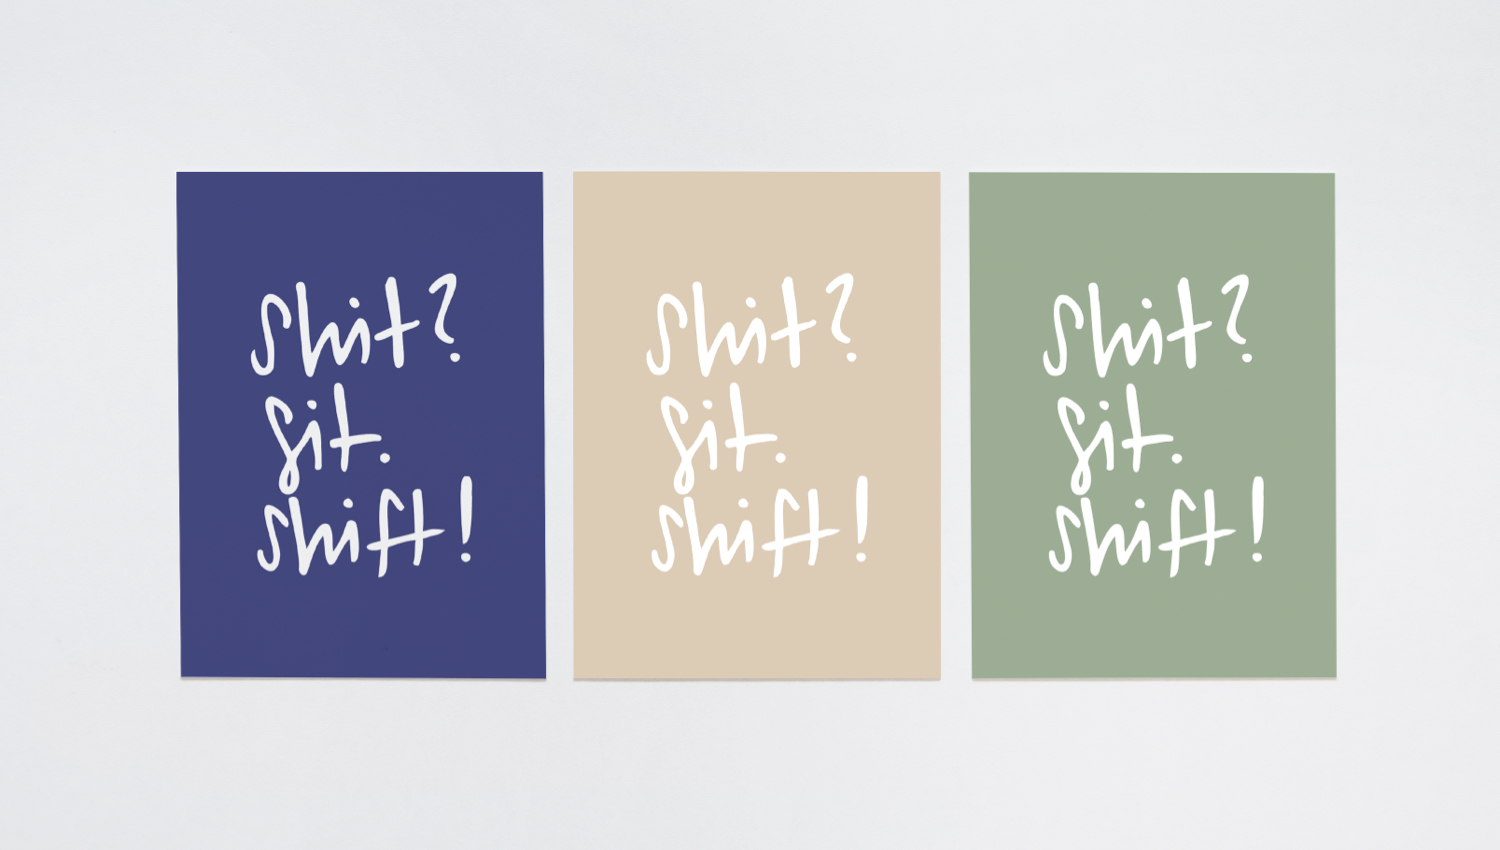
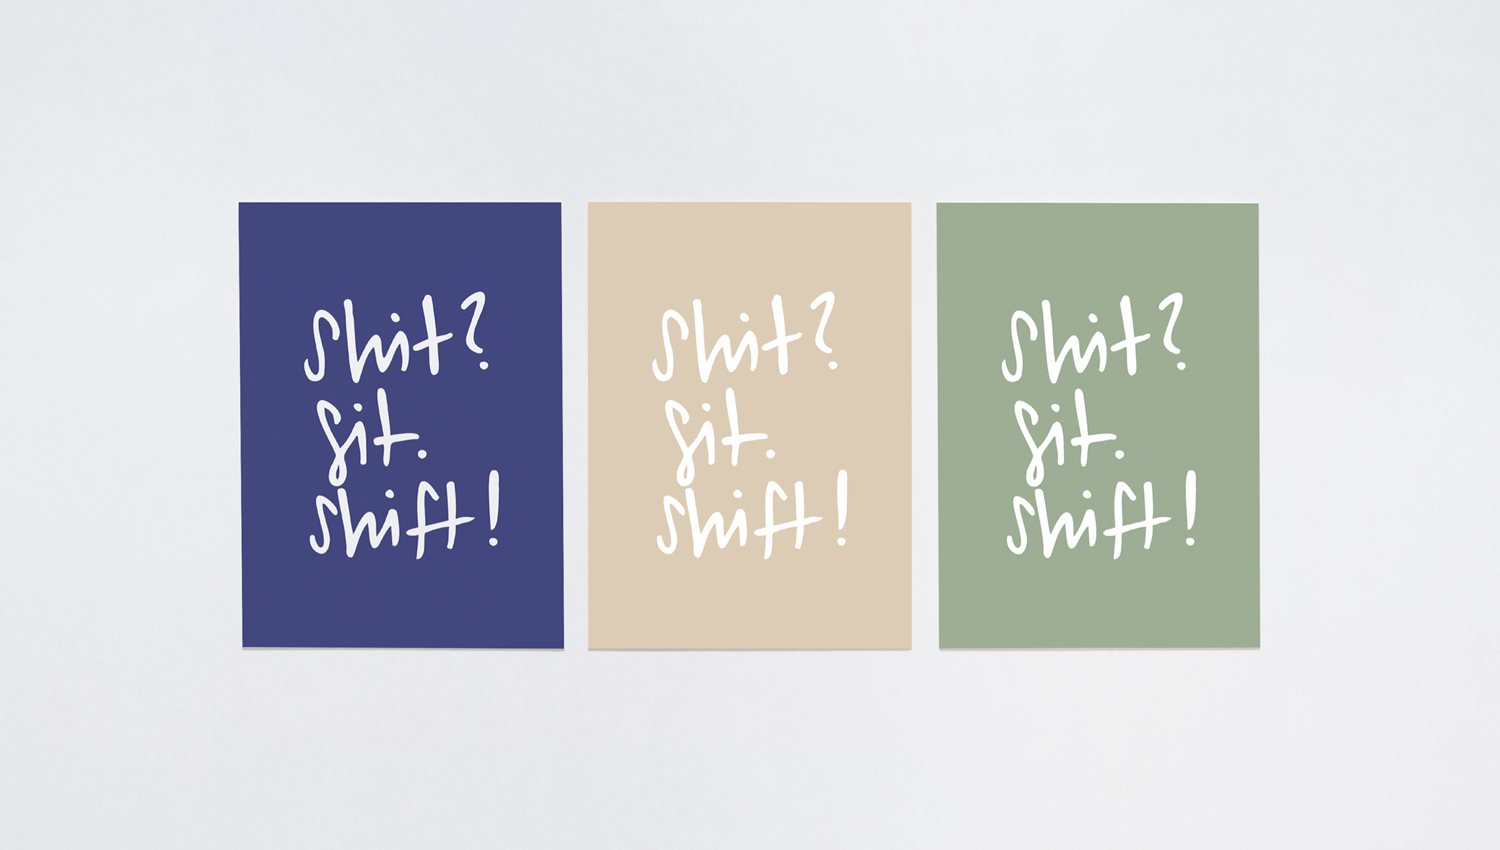
Refactor: replace some images

Changed region(s): [[0.092, 0.1835, 0.8893, 0.8259]]

diff --git a/lang/de/projects/project_sigrist_photometer.php b/lang/de/projects/project_sigrist_photometer.php
@@ -49,7 +49,7 @@
 
     <div class="section-details section-details--sigrist-photometer">
         <img class="detail__image item-1"       srcset="../../../media/img/work/sigrist-photometer/sigrist_hellergrafik_01_500.jpg  500w,                         	 ../../../media/img/work/sigrist-photometer/sigrist_hellergrafik_01_1000.jpg  1000w,                            	 ../../../media/img/work/sigrist-photometer/sigrist_hellergrafik_01_1500.jpg  1500w,                              ../../../media/img/work/sigrist-photometer/sigrist_hellergrafik_01_2000.jpg  2000w,                            ../../../media/img/work/sigrist-photometer/sigrist_hellergrafik_01_2500.jpg  2500w"                      	 sizes="100%"        alt="Sigrist Photometer Projektbild">
-        <img class="detail__image item-2"       srcset="../../../media/img/work/sigrist-photometer/sigrist_hellergrafik_02_500.jpg  500w,                         	 ../../../media/img/work/sigrist-photometer/sigrist_hellergrafik_02_1000.jpg  1000w,                            	 ../../../media/img/work/sigrist-photometer/sigrist_hellergrafik_02_1500.jpg  1500w,                              ../../../media/img/work/sigrist-photometer/sigrist_hellergrafik_02_2000.jpg  2000w,                            ../../../media/img/work/sigrist-photometer/sigrist_hellergrafik_02_2500.jpg  2500w"                      	 sizes="100%"        alt="Sigrist Photometer Projektbild">
+        <img class="detail__image item-2"       srcset="../../../media/img/work/sigrist-photometer/sigrist_hellergrafik_02_500.gif  500w,                         	 ../../../media/img/work/sigrist-photometer/sigrist_hellergrafik_02_1000.gif  1000w,                            	 ../../../media/img/work/sigrist-photometer/sigrist_hellergrafik_02_1500.gif  1500w,                              ../../../media/img/work/sigrist-photometer/sigrist_hellergrafik_02_2000.gif  2000w,                            ../../../media/img/work/sigrist-photometer/sigrist_hellergrafik_02_2500.gif  2500w"                      	 sizes="100%"        alt="Sigrist Photometer Projektbild">
         <img class="detail__image item-3"       srcset="../../../media/img/work/sigrist-photometer/sigrist_hellergrafik_03_500.jpg  500w,                         	 ../../../media/img/work/sigrist-photometer/sigrist_hellergrafik_03_1000.jpg  1000w,                            	 ../../../media/img/work/sigrist-photometer/sigrist_hellergrafik_03_1500.jpg  1500w,                              ../../../media/img/work/sigrist-photometer/sigrist_hellergrafik_03_2000.jpg  2000w,                            ../../../media/img/work/sigrist-photometer/sigrist_hellergrafik_03_2500.jpg  2500w"                      	 sizes="100%"        alt="Sigrist Photometer Projektbild">
         <img class="detail__image item-4"       srcset="../../../media/img/work/sigrist-photometer/sigrist_hellergrafik_04_500.jpg  500w,                         	 ../../../media/img/work/sigrist-photometer/sigrist_hellergrafik_04_1000.jpg  1000w,                            	 ../../../media/img/work/sigrist-photometer/sigrist_hellergrafik_04_1500.jpg  1500w,                              ../../../media/img/work/sigrist-photometer/sigrist_hellergrafik_04_2000.jpg  2000w,                            ../../../media/img/work/sigrist-photometer/sigrist_hellergrafik_04_2500.jpg  2500w"                      	 sizes="100%"        alt="Sigrist Photometer Projektbild">
         <img class="detail__image item-5"       srcset="../../../media/img/work/sigrist-photometer/sigrist_hellergrafik_05_500.jpg  500w,                         	 ../../../media/img/work/sigrist-photometer/sigrist_hellergrafik_05_1000.jpg  1000w,                            	 ../../../media/img/work/sigrist-photometer/sigrist_hellergrafik_05_1500.jpg  1500w,                              ../../../media/img/work/sigrist-photometer/sigrist_hellergrafik_05_2000.jpg  2000w,                            ../../../media/img/work/sigrist-photometer/sigrist_hellergrafik_05_2500.jpg  2500w"                      	 sizes="100%"        alt="Sigrist Photometer Projektbild">

diff --git a/lang/de/pages/work.php b/lang/de/pages/work.php
@@ -48,7 +48,7 @@
                             alt="Sigrist-Photometer">
                 </a>
                 <a class="project__title link-big" href="../projects/project_impact_acoustic.php" tabindex="2">
-                    <span class="link-big__text">Sigrist Photometer AG</span>
+                    <span class="link-big__text">Sigrist Photometer</span>
 										<?php include '../../../media/icons/arrow_big.svg' ?>
                 </a>
             </article>
@@ -91,11 +91,11 @@
             <article class="project">
                 <a href="../projects/project_corinnekueng.php" class="project__image__link">
                     <img    class="project__image"
-										srcset="    ./media/img/work/corinnekueng/12_500corinnekueng-hellergrafik-12.jpg  500w,
-																				../../../media/img/work/corinnekueng/12_1000corinnekueng-hellergrafik-12.jpg  1000w,
-																				../../../media/img/work/corinnekueng/12_1500corinnekueng-hellergrafik-12.jpg  1500w,
-																				../../../media/img/work/corinnekueng/12_2000corinnekueng-hellergrafik-12.jpg  2000w,
-																				../../../media/img/work/corinnekueng/12_2500corinnekueng-hellergrafik-12.jpg  2500w"
+                            srcset="    ../../../media/img/work/corinnekueng/12_500corinnekueng-hellergrafik-12.jpg  500w,
+                                        ../../../media/img/work/corinnekueng/12_1000corinnekueng-hellergrafik-12.jpg  1000w,
+                                        ../../../media/img/work/corinnekueng/12_1500corinnekueng-hellergrafik-12.jpg  1500w,
+                                        ../../../media/img/work/corinnekueng/12_2000corinnekueng-hellergrafik-12.jpg  2000w,
+                                        ../../../media/img/work/corinnekueng/12_2500corinnekueng-hellergrafik-12.jpg  2500w"
                             sizes="100%"
                             alt="Corinne Küng">
                 </a>

diff --git a/index.php b/index.php
@@ -68,7 +68,7 @@
                             alt="Sigrist-Photometer">
                 </a>
                 <a class="project__title link-big" href="lang/de/projects/project_sigrist_photometer.php" tabindex="2">
-                    <span class="link-big__text">Sigrist-Photometer AG</span>
+                    <span class="link-big__text">Sigrist-Photometer</span>
                     <?php include './media/icons/arrow_big.svg' ?>
                 </a>
           </article>
